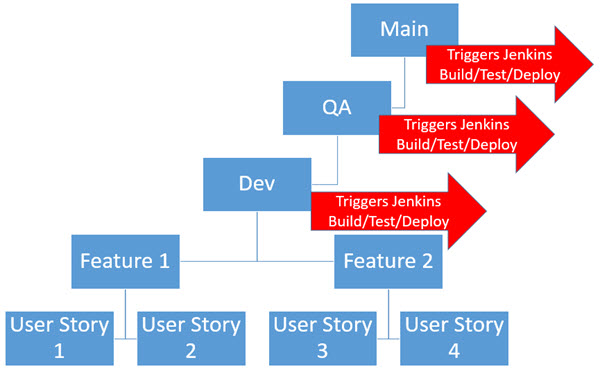
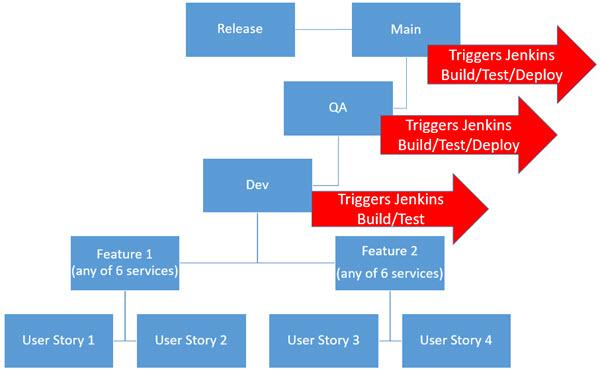
new images and customer feedback

diff --git a/_posts/2016-06-20-Exaktime.md b/_posts/2016-06-20-Exaktime.md
@@ -1,13 +1,13 @@
 ---
 layout: post
-title:  "Customer DevOps Hackfest template"
+title:  "Visibility, CI, and RM with Exaktime"
 author: "David Tesar"
 author-link: "dtzar"
 #author-image: "{{ site.baseurl }}/images/authors/photo.jpg"
 date:   2016-06-20
-categories: DevOps
+categories: DevOps, Jenkins
 color: "blue"
-#image: "{{ site.baseurl }}/images/imagename.png" #should be ~350px tall
+image: "../images/exaktime-logo.jpg" #should be ~350px tall
 excerpt: Exaktime improves their CI, CD, and Release Management DevOps practices, decreases lead time, and improves visibility into their entire pipeline with Visual Studio Team Services and Microsoft guidance.
 ---
 
@@ -32,9 +32,9 @@ Exaktime eliminates the need for handwritten paper time cards at job sites with 
 ## Problem Statement ##
 
 
-Exaktime used different tools for work item tracking (Target Process), source code repository (Plastic SCM), and central build, test, and deployment (Jenkins). Although Jenkins was setup to do continuous integration and deployment to specific environments, the releases between environments was done manually and new builds were generated from the same version of source code control between each environment.  At any given time, it was challenging for anyone to determine what environment their code resided on and when it might be time for that that code to be ready to move to the next environment to go to production.  Furthermore, quite a bit of effort was required to pull together information across these separate tools to have visibility of which work items were related to a release, what commits into source code control were happening against those work items, and what builds contained what work items.  There was no hard set rule on when a release happened and it would take around a month or more to get even a single feature into production.
+Exaktime used different tools for work item tracking (Target Process), source code repository (Plastic SCM), and central build, test, and deployment (Jenkins). Although Jenkins was setup to do continuous integration and deployment to specific environments, the releases between environments was done manually and new builds were generated from the same version of source code control between each environment.  At any given time, it was challenging for anyone to determine what environment their code resided on and when it might be time for that code to be ready to move to the next environment to go to production.  Furthermore, quite a bit of effort was required to pull together information across these separate tools to have visibility of which work items were related to a release, what commits into source code control were happening against those work items, and what builds contained what work items.  There was no hard set rule on when a release happened and it would take around a month or more to get even a single feature into production.
 
-Their product has 5 different front-end websites with a corresponding API for each website and they are all run on top of Azure App services.  They had one Visual Studio SLN file that built all 10 of these together and one source code repository for this solution.  Builds usually took an hour or longer which slowed down development and delayed feedback from automated tests in Jenkins.  Also the Jenkins server was a single virtual machine that had to be maintained with OS-level and task patches, required scheduled reboots, and occasionally was down interfering with the overall development life cycle.
+Their product has 5 different front-end services (Documents, Identity, Provisioning, Reports, and Web) with backend APIs and they are all run on top of Azure App services.  They had one Visual Studio SLN file that built all of these and more and one source code repository for this solution.  Builds usually took an hour or longer which slowed down development and delayed feedback from automated tests in Jenkins.  Also the Jenkins server was a single virtual machine that had to be maintained with OS-level and task patches, required scheduled reboots, and occasionally was down interfering with the overall development life cycle.
  
 ## Solutions, Steps, and Delivery ##
 
@@ -52,8 +52,8 @@ Value Stream Mapping helped Exaktime to determine what their real lead time was 
 Exaktime decided to migrate their work item tracking system (TargetProcess) and source code control (Plastic SCM) to Visual Studio Team Services (VSTS) using the VSTS agile process template and VSTS git repositories.  They did this migration on their own outside of a Microsoft assisted hackfest.  This made it much easier to see the connection between the work items and the code being committed.  
 
 To continue to have visibility through the entire deployment pipeline to production, Exaktime needed to evaluate the tools available to move those corresponding work items and code commits into builds and builds through the necessary environments into production.  Exaktime didn't want to have to spend time to maintain their Jenkins implementation, so they really needed a service as opposed to any other tool which they would also have to maintain.  They liked the capabilities of VSTS build and release management and the visibility it could provide for their work items, code commits, builds, and deployments. VSTS was a natural fit and Microsoft helped to replace Jenkins with VSTS.  VSTS was able to complete all of the same functionality as they were using Jenkins for including doing continuous integration and automated tests, but now they had the added bonus of being able to easily see their work items, code commits, builds, AND tests which failed from a central location.
-
-<@Insert VSTS screenshot> 
+![Jenkins-Build](../images/exaktime-jenkins.jpg)
+![VSTS-Build](../images/exaktime-vstsbuild.jpg)
 
 Jenkins continuous deployment functionality was handled by a PowerShell script deploying to Azure app services and was replaced with VSTS Release Management and the Azure websites deployment task as covered below.
  
@@ -61,37 +61,36 @@ Jenkins continuous deployment functionality was handled by a PowerShell script d
 
 Exaktime already had the "loose" definition of continuous integration enabled - namely that when they checked in code to their branch, Jenkins would automatically start unit tests and create a build if those tests passed.  This is useful although the biggest delays were in getting the code through a number of branches and build definitions leading up to production.  
 
-![Old Branch Structure](/images/Exaktime-OldBranchStructure.jpg)
+![Old Branch Structure](../images/Exaktime-OldBranchStructure.jpg)
 
 The user story branches get checked in by the dev anywhere from 3 hours to 2 days. There might be anywhere from 2-10 user stories per feature and the feature branch doesn't get manually merged into the dev branch until the entire user story is complete (6 hours to 20 days time).  Then finally "loose CI" kicks in once it hits the dev branch. After this, the merge from the dev branch into the QA branch is a manual merge taking anywhere from 1-2 days and another "loose CI" kicks off.  The QA team does manual tests at the point of when it hits the QA environment. 
 
 This branching structure caused delays of up to three weeks or more in getting feedback from the QA team from once the code was first written causing a "waste" of task switching taking developers longer to fix their code.  Furthermore, merge conflicts were common wasting much time simply trying to get branches into a healthy state since there were so many people working on code sub branches that didn't even attempt to merge for many days if not weeks or months later.
 
 To mitigate these challenges, a move towards true continuous integration was needed.  This meant that the ultimate goal was to have people committing to "trunk" or the main branch daily and that branch was always in a shippable state as verified by automated tests and the code running in production or production-like environments.  Moving to this structure is a big culture shift and takes time, so we proposed these things to help transition to this state:
-1. Be able to build all 10 of the app services independently - This signficantly reduced the build times down to around 5-10 minutes<@customer-confirm> from the 45 min - 1 hour, enables faster feedback, and lights up the possibility to deploy independently and break apart the code base into separate git repositories.
+1. Be able to build, test, and release the app services independently - This signficantly reduced the build times down to around 10 minutes from the 45 min - 1 hour, enables faster feedback, and lights up the possibility to deploy independently and break apart the code base into separate git repositories.
 
 2. Shrinking the branch structure and environments - removing the dev environment and user story branches was a quick way to reduce merge conflicts and lead time.
-<@Insert Screenshot of new branch structure>
+![New Branch Structure](../images/exaktime-newbranchstructure.jpg)
 
-3. Run the new Git Merge task nightly - In the transition to one branch and separate git repositories for each of the 10 services, Microsoft created a "git merge" VSTS task which tests to see if any merge conflicts will happen if those branches merged individually or all together into their higher-level branch.  
-<@Insert Screenshot of VSTS git merge Task>  
+3. Run the new Git Merge task nightly - In the transition to one branch and separate git repositories for each of the services, Microsoft created a "git merge" VSTS task which tests to see if any merge conflicts will happen if those branches merged individually or all together into their higher-level branch.  
+![VSTS Merge Task](../images/exaktime-gitmergetask.jpg)
+![VSTS Merge Task Build](../images/exaktime-gitmergebuild.jpg)
 Exaktime runs this nightly and has helped to find and resolve merge conflicts the next day versus having much more pain in trying to merge after days, weeks, or months across numerous developer merge conflicts.  In the future they may enforce this task to run before even allowing the code to be checked in to the sub branch.
 
-4. Setup a deployment and release pipeline based on complimentary service pairs - Developers usually would work on a complimentary front-end and corresponding back-end API app service together and this has the ability to delivery end-user value in it self.  For these reasons it makes sense to break apart the "ship all 10 services at once" mentality and shift them to be deployed more independently.
-<@Insert Screenshot of new branch + release structure>
+4. Setup a deployment and release pipeline based on services - Developers usually would work on just one service at a time.  These services have the ability to delivery end-user value in it self and could be deployed to customers independently.  For these reasons it makes sense to break apart the "ship all services at once" mentality and shift them to be deployed more independently.
 
 ###Implement Release Management###
 
 This new branch and service pair release structure in place made a smooth transition into their own continuous deployment and release definition pipelines.  Each service pair has a build definition that builds both services and upon a successful build, continuous deployment triggers a new release for that build into the QA environment.  
-<@Insert Screenshot of continuous deployment trigger>
-<@Insert Screenshot of release tasks/pipeline>
+![VSTS-ReleaseManagement](../images/exaktime-vstsrm.jpg)
 
 As you can see - a build only happens once and then this build artifact is automatically moved through the different environments. Since Exaktime is using VSTS for work item tracking, source code repository, builds, tests, deployments, and release - they now have full end-to-end visibility! 
-<@Insert Screenshot of release output>
+![VSTS-ReleaseManagement-CD](../images/exaktime-vstsrmcd.jpg)
 
 ## Conclusion ##
 
-Exaktime has reduced their lead time from over one month down to a week <@customer verify>, has reduced their build times, and gets feedback much quicker to save time and produce higher quality code.  Anyone in the company has an amazing new view in VSTS on the end-to-end lifecycle of the services which has motivated the team and saved them time. No more time is spent on maintaining a Jenkins virtual machines since VSTS handles everything in its service.
+Exaktime has reduced their lead time from over one month down to a week, has reduced their build times, and gets feedback much quicker to save time and produce higher quality code.  Anyone in the company has an amazing new view in VSTS on the end-to-end lifecycle of the services which has motivated the team and saved them time. No more time is spent on maintaining a Jenkins virtual machines since VSTS handles everything in its service.
 
 ## General lessons ##
 Other teams should work towards smaller batch sizes for a release and strive to aim for "true continuous integration".  Consider the question "What is the smallest new feature which could be developed that has user value?" and set that to be a release.
